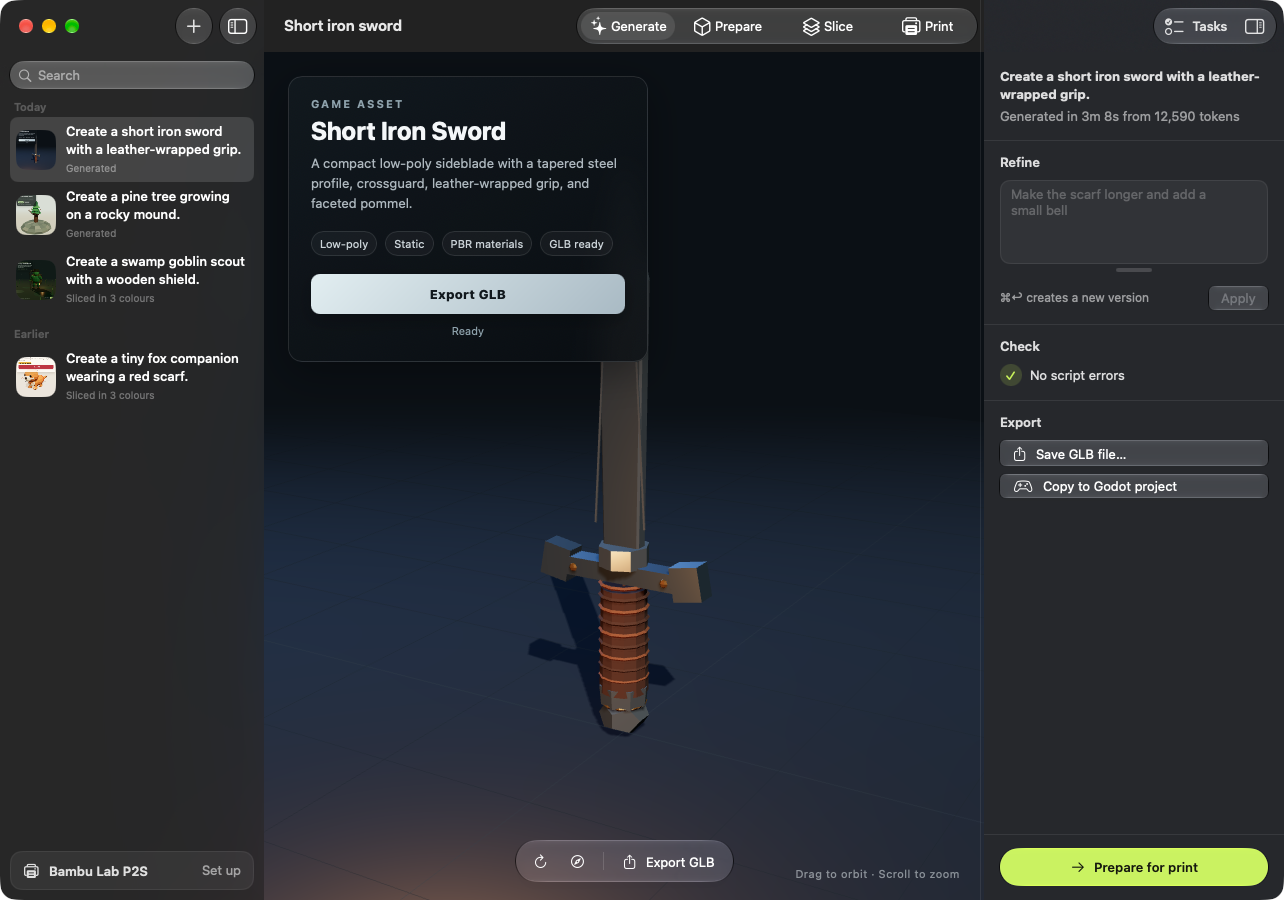
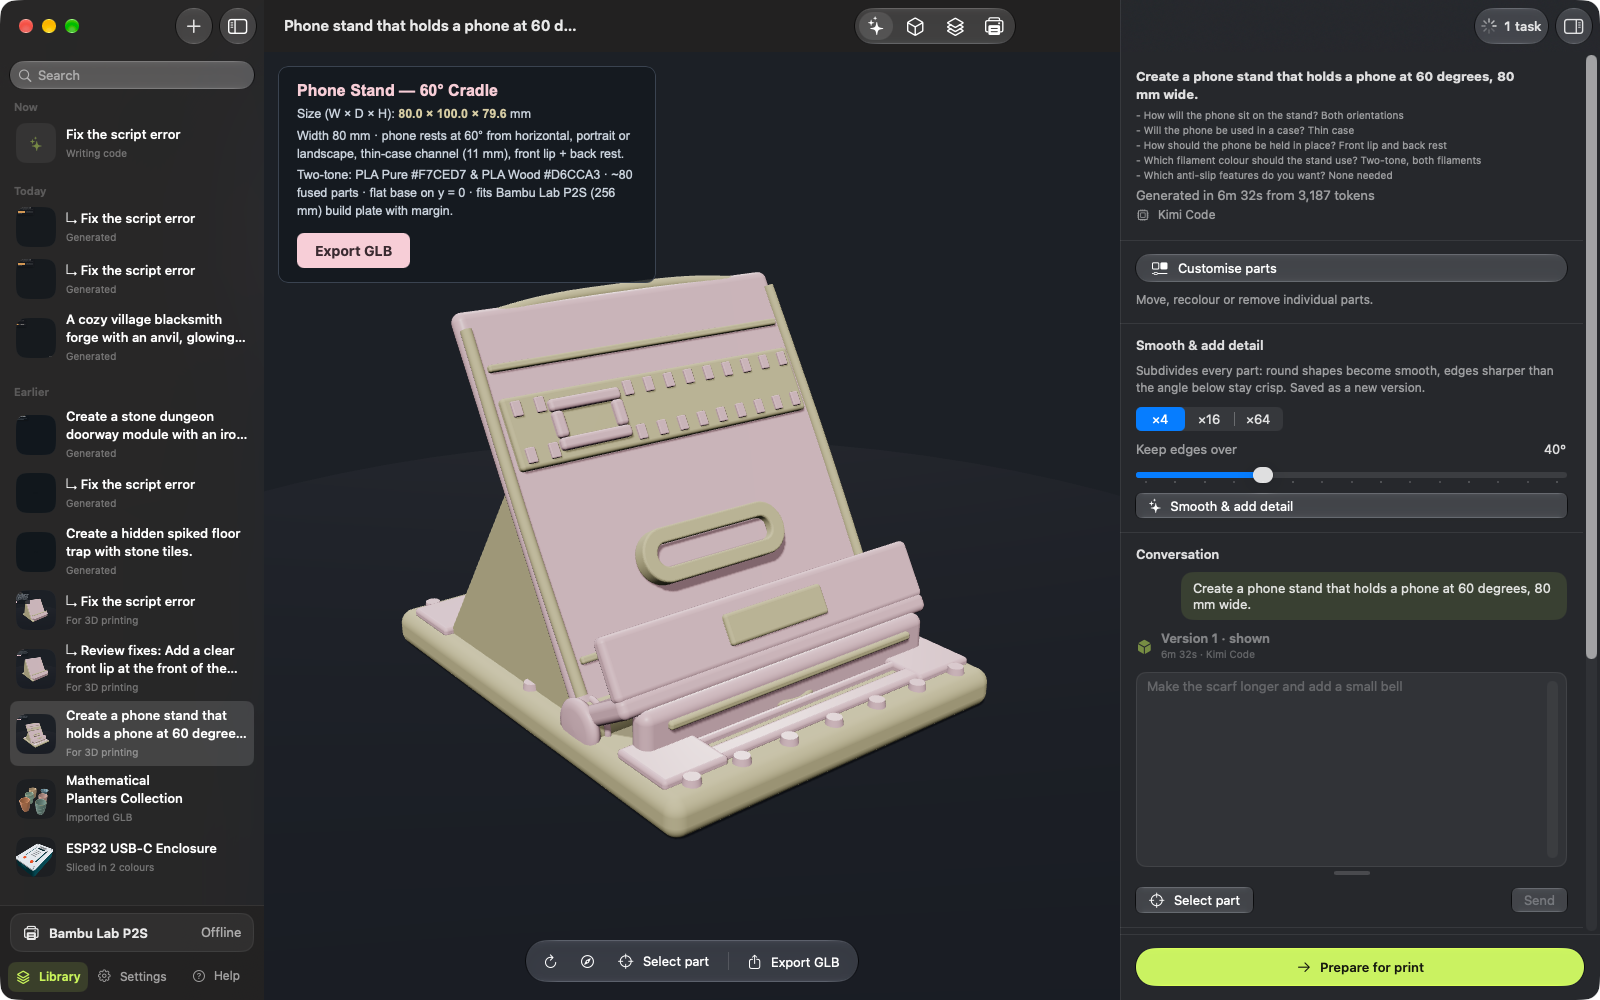
Fix-it works with the fine-tuned model; new README screenshots
- The fine-tune often starts its answer straight after <think> without closing it, so the whole file went to the reasoning and Fix it failed with "did not return an HTML file". Code that opens a file is now treated as the answer.
- Whole-file rewrites that leave out a helper function the code still calls get it back from the earlier version.
- Script errors thrown inside three.js now name the page line that called it, and Fix it quotes that code to the model.
- build.sh fails on compile errors instead of packaging the previous binary.
- The model card shows the fine-tune's size and speed; the reply hint fits the asset type; messages point at the right Settings section.
- README: new screenshots (generated asset, follow-up questions, live preview, part picking, Prepare with AMS colours, local model settings).

diff --git a/Sources/Sirpi/HelperRestore.swift b/Sources/Sirpi/HelperRestore.swift
@@ -1,0 +1,82 @@
+import Foundation
+
+/// When a model rewrites a whole file to change one thing, it sometimes leaves out a helper function the rest of the
+/// code still calls (`addBolt is not defined`), which breaks a page that only needed a one-line fix. This puts back
+/// any `function name(...)` the new file calls but no longer defines, copied from the earlier versions.
+enum HelperRestore {
+    /// Returns the file with missing helpers restored, and their names (empty when nothing was missing).
+    static func restore(_ html: String, from earlier: [String]) -> (html: String, restored: [String]) {
+        guard let close = html.range(of: "</script>", options: .backwards) else { return (html, []) }
+        var defs: [String] = [], names: [String] = []
+        for name in calledButUndefined(html) {
+            guard let body = earlier.lazy.compactMap({ definition(of: name, in: $0) }).first else { continue }
+            defs.append(body); names.append(name)
+        }
+        guard !defs.isEmpty else { return (html, []) }
+        // Function declarations are hoisted, so the end of the last script is in scope for every call above it.
+        var out = html
+        out.insert(contentsOf: "\n    // Restored from the previous version.\n" + defs.joined(separator: "\n\n") + "\n  ",
+                   at: close.lowerBound)
+        return (out, names)
+    }
+
+    /// Plain calls `name(` (not `.name(` or `new name(`) to names the file never declares.
+    static func calledButUndefined(_ html: String) -> [String] {
+        let calls = matches(#"(?<![\w$.])(?<!new )([A-Za-z_$][\w$]*)\s*\("#, in: html)
+        let declared = Set(matches(#"\bfunction\s*\*?\s*([A-Za-z_$][\w$]*)"#, in: html)
+            + matches(#"\b(?:const|let|var|class)\s+([A-Za-z_$][\w$]*)"#, in: html)
+            + matches(#"\bimport\s*\{([^}]*)\}"#, in: html).flatMap { $0.split(separator: ",").map {
+                String($0.split(separator: " ").last ?? "").trimmingCharacters(in: .whitespaces) } }
+            + matches(#"\bimport\s+\*\s+as\s+([A-Za-z_$][\w$]*)"#, in: html)
+            + matches(#"\bimport\s+([A-Za-z_$][\w$]*)\s+from"#, in: html))
+        var seen = Set<String>(), out: [String] = []
+        for c in calls where !declared.contains(c) && !builtins.contains(c) && seen.insert(c).inserted { out.append(c) }
+        return out
+    }
+
+    /// The whole `function name(...) { ... }` declaration, with its leading indentation, or nil.
+    static func definition(of name: String, in html: String) -> String? {
+        let esc = NSRegularExpression.escapedPattern(for: name)
+        guard let re = try? NSRegularExpression(pattern: #"(?m)^[ \t]*(?:async[ \t]+)?function[ \t]+"# + esc + #"\s*\("#),
+              let m = re.firstMatch(in: html, range: NSRange(html.startIndex..., in: html)),
+              let start = Range(m.range, in: html)?.lowerBound,
+              let open = html[start...].firstIndex(of: "{") else { return nil }
+        // Brace matching that skips strings, template literals and comments.
+        var depth = 0, i = open, quote: Character? = nil, lineComment = false, blockComment = false
+        while i < html.endIndex {
+            let c = html[i]
+            let next = html.index(after: i) < html.endIndex ? html[html.index(after: i)] : nil
+            if lineComment { if c == "\n" { lineComment = false } }
+            else if blockComment { if c == "*" && next == "/" { blockComment = false; i = html.index(after: i) } }
+            else if let q = quote {
+                if c == "\\" { i = html.index(after: i) } else if c == q { quote = nil }
+            } else if c == "/" && next == "/" { lineComment = true }
+            else if c == "/" && next == "*" { blockComment = true }
+            else if c == "\"" || c == "'" || c == "`" { quote = c }
+            else if c == "{" { depth += 1 }
+            else if c == "}" { depth -= 1; if depth == 0 { return String(html[start...i]) } }
+            if i < html.endIndex { i = html.index(after: i) }
+        }
+        return nil
+    }
+
+    private static func matches(_ pattern: String, in s: String) -> [String] {
+        guard let re = try? NSRegularExpression(pattern: pattern) else { return [] }
+        return re.matches(in: s, range: NSRange(s.startIndex..., in: s)).compactMap {
+            Range($0.range(at: 1), in: s).map { String(s[$0]) }
+        }
+    }
+
+    private static let builtins: Set<String> = [
+        "if", "for", "while", "switch", "catch", "return", "function", "typeof", "await", "import", "super", "with",
+        "requestAnimationFrame", "setTimeout", "setInterval", "clearTimeout", "clearInterval", "fetch", "alert",
+        "parseInt", "parseFloat", "isNaN", "isFinite", "Number", "String", "Boolean", "Array", "Object", "Math",
+        "Date", "JSON", "Promise", "Symbol", "Error", "TypeError", "Map", "Set", "WeakMap", "BigInt", "Proxy",
+        "Uint8Array", "Uint16Array", "Uint32Array", "Int8Array", "Int16Array", "Int32Array", "Float32Array",
+        "Float64Array", "ArrayBuffer", "DataView", "Blob", "URL", "encodeURIComponent", "decodeURIComponent",
+        "atob", "btoa", "structuredClone", "queueMicrotask", "getComputedStyle", "matchMedia", "rgb", "rgba",
+        "hsl", "hsla", "calc", "min", "max", "clamp", "var", "url", "translate", "translateX", "translateY",
+        "scale", "rotate", "blur", "drop", "linear", "radial", "conic", "cubic", "steps", "minmax", "repeat",
+        "env", "attr", "inset", "polygon", "circle", "ellipse", "local", "format", "not", "is", "where", "has",
+    ]
+}

diff --git a/Sources/Sirpi/App.swift b/Sources/Sirpi/App.swift
@@ -276,9 +276,29 @@ final class AppModel {
         stage = .generate
     }
 
+    /// The page lines the errors point at ("page line N", or "(line N)" for an error in the page itself), quoted
+    /// so the model sees the failing code. `offset` is the number of lines the picking script adds above the code.
+    static func quoteErrorLines(_ errors: String, in html: String, offset: Int) -> String {
+        let lines = html.components(separatedBy: "\n")
+        let re = try! NSRegularExpression(pattern: #"page line (\d+)|\(line (\d+)\)"#)
+        let ns = errors as NSString
+        var seen = Set<Int>(), out = ""
+        for m in re.matches(in: errors, range: NSRange(location: 0, length: ns.length)) {
+            let g = m.range(at: 1).location != NSNotFound ? m.range(at: 1) : m.range(at: 2)
+            guard let n = Int(ns.substring(with: g)).map({ $0 - offset }), n >= 1, n <= lines.count, seen.insert(n).inserted,
+                  seen.count <= 4 else { continue }
+            let range = max(1, n - 2)...min(lines.count, n + 2)
+            out += "\n\nCode at line \(n):\n" + range.map { ($0 == n ? "> " : "  ") + lines[$0 - 1] }.joined(separator: "\n")
+        }
+        return out
+    }
+
     func fixErrors() {
         guard selectedAsset != nil, !preview.errors.isEmpty else { return }
-        let errs = preview.errors.prefix(8).joined(separator: "\n")
+        var errs = preview.errors.prefix(8).joined(separator: "\n")
+        if let a = selectedAsset, let html = try? String(contentsOf: a.htmlURL, encoding: .utf8) {
+            errs += Self.quoteErrorLines(errs, in: html, offset: pickMode ? 1 : 0)
+        }
         refine("The page throws these JavaScript errors. Fix them without changing the asset design:\n\(errs)",
                label: "Fix \(preview.errors.count == 1 ? "the script error" : "\(preview.errors.count) script errors")")
     }

diff --git a/Sources/Sirpi/Model.swift b/Sources/Sirpi/Model.swift
@@ -518,6 +518,12 @@ final class Generator {
                         onDone: @escaping (Asset) -> Void) async {
         finished = Date()
         var answer = content
+        // A model that never closed its <think> block leaves the whole file in the reasoning.
+        if mode != .continuation, Self.extractHTML(answer) == nil, !Patch.looksLikePatch(answer),
+           Self.extractHTML(reasoning) != nil || Patch.looksLikePatch(reasoning) {
+            answer = reasoning
+            content = reasoning
+        }
         if mode == .continuation {
             answer = Continuation.join(prefix, String(content.dropFirst(prefix.count)))
             content = answer
@@ -557,6 +563,20 @@ final class Generator {
 
     private func save(html: String, prompt: String, base: Asset?, refinement: String?, library: AssetLibrary,
                       onDone: @escaping (Asset) -> Void) {
+        var html = html
+        if let base {
+            // Earlier versions, newest first, for helpers a whole-file rewrite left out.
+            var earlier: [String] = [], cursor: Asset? = base
+            while let a = cursor, earlier.count < 8 {
+                if let h = try? String(contentsOf: a.htmlURL, encoding: .utf8) { earlier.append(h) }
+                cursor = library.asset(a.parentId)
+            }
+            let (fixed, restored) = HelperRestore.restore(html, from: earlier)
+            if !restored.isEmpty {
+                html = fixed
+                server?.log.append("Restored \(restored.joined(separator: ", ")) from the previous version")
+            }
+        }
         do {
             let a = try library.create(prompt: prompt, html: html, parent: base, refinement: saveLabel ?? refinement,
                                        seconds: elapsed, tokens: tokens, engine: engineLabel, reference: reference?.jpeg,

diff --git a/Sources/Sirpi/NativeEngine.swift b/Sources/Sirpi/NativeEngine.swift
@@ -86,6 +86,10 @@ final class NativeEngine {
                         maxTokens: maxTokens, temperature: Float(temperature), topP: 0.95, topK: 40, minP: 0.0)
                     let events = try await c.generate(input: LMInput(tokens: MLXArray(tokens)), parameters: params)
                     var inThink = thinking
+                    // The fine-tune often skips planning on follow-up turns and starts the file straight after
+                    // <think>, never closing it. Until the first few characters arrive, hold them; if they open
+                    // a file, it is the answer, not reasoning.
+                    var decided = !thinking
                     var pending = ""            // undecided text (may hold a partial </think>)
                     var out = "", outTokens = 0 // batch for the current section
                     var lastYield = Date()
@@ -102,6 +106,16 @@ final class NativeEngine {
                         }
                         guard let text = event.chunk else { continue }
                         pending += text; outTokens += 1
+                        if !decided {
+                            let head = pending.drop { $0.isWhitespace }
+                            if head.count < 9 { continue }
+                            decided = true
+                            let h = head.prefix(9).lowercased()
+                            if h.hasPrefix("```") || h.hasPrefix("<!doctype") || h.hasPrefix("<html") {
+                                inThink = false
+                                pending = String(head)
+                            }
+                        }
                         if inThink, let r = pending.range(of: "</think>") {
                             out += pending[..<r.lowerBound]
                             send()

diff --git a/Sources/Sirpi/Providers.swift b/Sources/Sirpi/Providers.swift
@@ -167,9 +167,9 @@ enum ProviderSettings {
         case .local: return nil
         case .cli: return CLIRunner.resolvedPath(executable(p)) == nil ? "\(executable(p)) is not installed or not on your shell PATH." : nil
         case .openAI, .anthropic:
-            if p.needsKey && apiKey(p).isEmpty { return "Add an API key for \(p.name) in Settings › Model." }
-            if p.needsAccount && account(p).isEmpty { return "Add your Cloudflare account ID in Settings › Model." }
-            if model(p).isEmpty { return "Choose a model for \(p.name) in Settings › Model." }
+            if p.needsKey && apiKey(p).isEmpty { return "Add an API key for \(p.name) in Settings › Cloud APIs." }
+            if p.needsAccount && account(p).isEmpty { return "Add your Cloudflare account ID in Settings › Cloud APIs." }
+            if model(p).isEmpty { return "Choose a model for \(p.name) in Settings › Cloud APIs." }
             return nil
         }
     }
@@ -557,7 +557,7 @@ enum CLIRunner {
             let task = Task.detached(priority: .userInitiated) {
                 let exe = ProviderSettings.executable(p)
                 guard let path = resolvedPath(exe) else {
-                    cont.finish(throwing: ForgeError("\(exe) was not found. Install it, or set its full path in Settings › Model.")); return
+                    cont.finish(throwing: ForgeError("\(exe) was not found. Install it, or set its full path in Settings › Coding Agents.")); return
                 }
                 let work = FileManager.default.temporaryDirectory.appendingPathComponent("assetforge-\(UUID().uuidString)", isDirectory: true)
                 try? FileManager.default.createDirectory(at: work, withIntermediateDirectories: true)

diff --git a/Sources/Sirpi/GenerateViews.swift b/Sources/Sirpi/GenerateViews.swift
@@ -412,7 +412,7 @@ struct ModelInspector: View {
             }
             .padding(16)
             if provider.kind == .local {
-                InspectorSection(title: "Qwen3.5 4B GLB 3D Coder") {
+                InspectorSection(title: Self.model == "mlx-tuned-4bit" ? "3D Coder · Sirpi fine-tune" : "Qwen3.5 4B GLB 3D Coder") {
                     let _ = app.server.activeModel
                     Text(isNative ? "Runs inside Sirpi with MLX." : "Runs on this Mac with llama.cpp.")
                         .foregroundStyle(.secondary).fixedSize(horizontal: false, vertical: true)
@@ -475,6 +475,7 @@ extension ModelInspector {
     }
     static var weights: String {
         switch model {
+        case "mlx-tuned-4bit": "MLX 4-bit · 2.4 GB"
         case "mlx-4bit": "MLX 4-bit · 2.2 GB"
         case "mlx-6bit": "MLX 6-bit · 3.2 GB"
         default: model.contains("Q4") ? "Q4_K_M · 2.6 GB" : "Q8_0 · 4.2 GB"
@@ -482,12 +483,12 @@ extension ModelInspector {
     }
     static var speed: String {
         switch model {
-        case "mlx-4bit": "about 83 tok/s"
+        case "mlx-4bit", "mlx-tuned-4bit": "about 83 tok/s"
         case "mlx-6bit": "about 61 tok/s"
         default: model.contains("Q4") ? "about 58 tok/s" : "about 43 tok/s"
         }
     }
-    static var typical: String { model == "mlx-4bit" ? "2 to 4 min" : model == "mlx-6bit" ? "3 to 5 min" : "5 to 8 min" }
+    static var typical: String { model == "mlx-tuned-4bit" ? "1 to 3 min" : model == "mlx-4bit" ? "2 to 4 min" : model == "mlx-6bit" ? "3 to 5 min" : "5 to 8 min" }
 }
 
 struct GeneratingInspector: View {

diff --git a/Sources/Sirpi/PartChat.swift b/Sources/Sirpi/PartChat.swift
@@ -228,6 +228,15 @@ struct RefiningViewport: View {
 
 /// An asset's versions as a conversation: what was asked, which version it made, and what is being written now.
 struct AssetConversation: View {
+    /// An example follow-up that fits the asset: printed objects get a size change, scenes and game assets a detail.
+    static func replyHint(_ purpose: String?) -> String {
+        switch AssetPurpose(rawValue: purpose ?? "") {
+        case .print: "Make it 10 mm wider and round the corners"
+        case .scene: "Add a few trees and a path to the door"
+        default: "Make it more weathered and add a small detail"
+        }
+    }
+
     @Environment(AppModel.self) private var app
     let asset: Asset
     @State private var text = ""
@@ -354,7 +363,7 @@ struct AssetConversation: View {
                     .overlay(RoundedRectangle(cornerRadius: 10).strokeBorder(focused ? Theme.accent.opacity(0.5) : Theme.hairline))
                     .overlay(alignment: .topLeading) {
                         if text.isEmpty {
-                            Text(app.pickedPart != nil ? "What should change about this part?" : "Make the scarf longer and add a small bell")
+                            Text(app.pickedPart != nil ? "What should change about this part?" : Self.replyHint(app.selectedAsset?.purpose))
                                 .foregroundStyle(.tertiary).padding(.horizontal, 11).padding(.vertical, 6)
                                 .allowsHitTesting(false)
                         }

diff --git a/Resources/web/bridge.js b/Resources/web/bridge.js
@@ -12,8 +12,25 @@
       post({ type: 'error', message: 'Failed to load resource: ' + (e.target.src || e.target.href) });
       return;
     }
-    post({ type: 'error', message: `${e.message}${e.lineno ? ` (line ${e.lineno})` : ''}` });
+    // An error thrown inside three.js reports a line of three.js, which says nothing to the model fixing the page.
+    // Name the library file, and the page line that called into it, from the stack.
+    const here = location.href.split(/[?#]/)[0];
+    const file = (e.filename || '').split(/[?#]/)[0];
+    const elsewhere = file && file !== here;
+    const pl = elsewhere ? pageLine(e.error, here) : 0;
+    const where = e.lineno ? ` (line ${e.lineno}${elsewhere ? ` of ${file.split('/').pop()}` : ''})` : '';
+    post({ type: 'error', message: `${e.message}${where}${pl ? `, called from page line ${pl}` : ''}` });
   }, true);
+  function pageLine(err, here) {
+    const stack = String((err && err.stack) || '');
+    for (const l of stack.split('\n')) {
+      const i = l.indexOf(here);
+      if (i < 0) continue;
+      const m = l.slice(i + here.length).match(/^(?:\?[^:]*)?:(\d+):\d+/);
+      if (m) return +m[1];
+    }
+    return 0;
+  }
   window.addEventListener('unhandledrejection', (e) => {
     const r = e.reason;
     post({ type: 'error', message: 'Unhandled promise rejection: ' + (r && (r.stack || r.message) || String(r)) });

diff --git a/Sources/Sirpi/HelpView.swift b/Sources/Sirpi/HelpView.swift
@@ -111,7 +111,7 @@ struct HelpView: View {
             para("Textures default to 512 px. Choose Full only when you need the original quality; those downloads are large. The first import sets up the USD converter once.")
             para("Licence: CC-BY-4.0. You may use these assets, including commercially, if you credit NVIDIA.")
         case .providers:
-            section("On this Mac", "Sirpi's fine-tuned 3D Coder downloads on first launch (2.4 GB) and runs inside the app on the GPU. Pick other weights, or ccore's original model, in Settings › Model.")
+            section("On this Mac", "Sirpi's fine-tuned 3D Coder downloads on first launch (2.4 GB) and runs inside the app on the GPU. Pick other weights, or ccore's original model, in Settings › Local Model.")
             section("Coding agents", "Claude Code, opencode, Grok, Kimi, Cursor Agent, Codex, Gemini CLI and pi are detected automatically and use the login they already have. Pick a model for each in Settings › Coding Agents.")
             section("Cloud APIs", "Claude, OpenAI, Gemini, xAI, Cloudflare Workers AI, OpenRouter, Groq, DeepSeek and Mistral need an API key in Settings › Cloud APIs. Ollama and LM Studio run locally.")
         case .shortcuts:

diff --git a/Sources/Sirpi/KimiACP.swift b/Sources/Sirpi/KimiACP.swift
@@ -17,7 +17,7 @@ enum KimiACP {
             let task = Task.detached(priority: .userInitiated) {
                 let exe = ProviderSettings.executable(p)
                 guard let path = CLIRunner.resolvedPath(exe) else {
-                    cont.finish(throwing: ForgeError("\(exe) was not found. Install it, or set its full path in Settings › Model.")); return
+                    cont.finish(throwing: ForgeError("\(exe) was not found. Install it, or set its full path in Settings › Coding Agents.")); return
                 }
                 let work = FileManager.default.temporaryDirectory.appendingPathComponent("assetforge-\(UUID().uuidString)", isDirectory: true)
                 let agents = work.appendingPathComponent(".kimi-code/agents", isDirectory: true)

diff --git a/Sources/Sirpi/ReferenceImage.swift b/Sources/Sirpi/ReferenceImage.swift
@@ -90,7 +90,7 @@ enum ImageDescriber {
 
     static func describe(_ image: ReferenceImage) async throws -> String {
         guard let p = describer else {
-            throw ForgeError("The local 3D Coder can't see pictures. Install Claude Code or add a Claude, OpenAI or Gemini API key in Settings › Model, and Sirpi will describe the picture for it.")
+            throw ForgeError("The local 3D Coder can't see pictures. Install Claude Code or add a Claude, OpenAI or Gemini API key in Settings › Cloud APIs, and Sirpi will describe the picture for it.")
         }
         let messages = [["role": "user", "content": instruction]]
         let stream: AsyncThrowingStream<NativeEngine.Piece, Error>

diff --git a/Sources/Sirpi/PrintCheckViews.swift b/Sources/Sirpi/PrintCheckViews.swift
@@ -105,7 +105,7 @@ enum PrintReview {
 
     static func review(report: PrintReport, options: SliceOptions, request: String) async throws -> Result {
         guard let p = provider else {
-            throw ForgeError("No AI model for reviews is set up. Install Claude Code or add an API key in Settings › Model.")
+            throw ForgeError("No AI model for reviews is set up. Install Claude Code, or add an API key in Settings › Cloud APIs.")
         }
         let messages = [["role": "user", "content": prompt(report: report, options: options, request: request)]]
         let stream = p.kind == .cli
